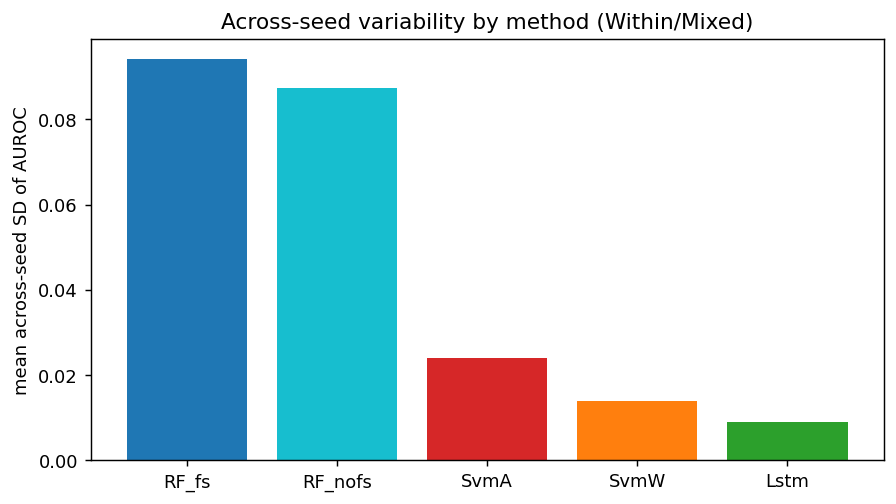
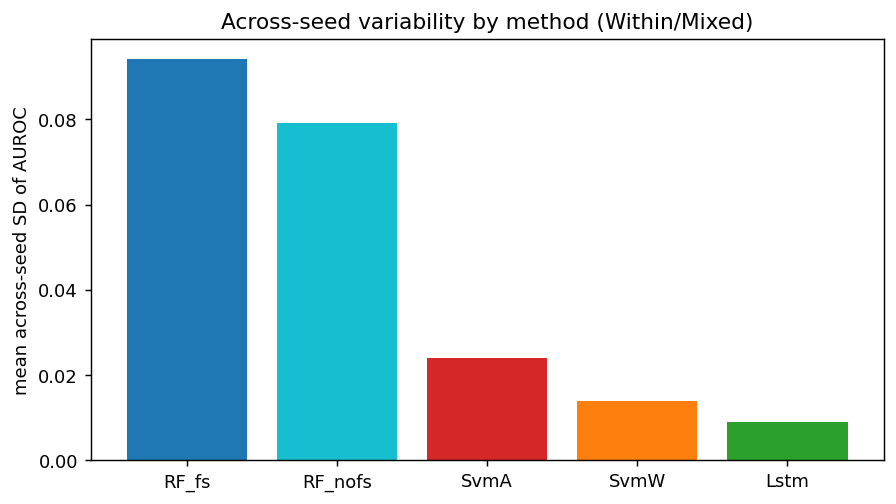
docs(exp3): finalize recorded-value analysis — RF-nofs Mixed complete at n=15
RF-nofs Mixed reached its full 15-seed extension (2026-08-02), closing the exp3
c1 recorded-value campaign. Re-ran the analysis and dropped all provisional
markers:
- §A RF-nofs Mixed 0.846 (in) / 0.912 (out), n=15 (was 0.843/0.908 n=12*)
- §B Mixed-in H=47.1, Mixed-out H=40.7; §C RF-nofs in->out p=6e-05
- §D1 Δ=+0.127 / +0.163 (cliff +0.74/+0.79); §D3 SD 0.077/0.081, BF updated
- figs 1/2/4 regenerated; status/migration notes and the progress-summary
  table + trade-off marked complete.
Zero deviation: finals match the provisional values to <0.01 (extra seeds only
tightened the SD); all rankings and conclusions unchanged. Every retained cell
is CI-adequate. No further experiments; only the manuscript revision remains.

Changed region(s): [[0.2812, 0.1488, 0.4688, 0.2679]]

diff --git a/docs/experiments/results/exp3-analysis/c1_recorded_value_analysis.md b/docs/experiments/results/exp3-analysis/c1_recorded_value_analysis.md
@@ -21,11 +21,10 @@ performance.
 - **Reproducibility:** `scripts/python/analysis/exp3_c1_recorded_value_analysis.py`. Tools:
   scipy / numpy / pandas / matplotlib (Dunn, Cliff's δ, Scheirer–Ray–Hare implemented in-script).
 
-> **Status (2026-08-01).** The Part B mechanism probes (Figures 5–7) are complete under **pooled**
-> (the deployment regime), with **mixed-in retained as a diagnostic** that reproduces every claim.
-> The Pooled-SW-SMOTE and RF-nofs descriptive cells remain provisional while the final RF-nofs
-> extension completes; regenerate the summary tables and statistical tests after that final artifact
-> set is available.
+> **Status (2026-08-03).** The recorded-value campaign is **complete** — all methods × the retained
+> Pooled/Mixed modes are final (RF-nofs reached its full 15-seed extension on 2026-08-02). The Part B
+> mechanism probes (Figures 5–7) report **pooled** (the deployment regime), with **mixed-in retained
+> as a diagnostic**. Sections A–E below are the finalized numbers.
 
 > **Migration in progress — see [within_retirement_plan.md](within_retirement_plan.md).** The two
 > Within modes are being retired because `within` trains only on the target group, discarding the
@@ -42,15 +41,14 @@ Mean ± SD (n); 95% t-CI and percentile bootstrap CI are computed in the script.
 | Method | Pooled-base | Pooled-SW-SMOTE | Mixed-in | Mixed-out |
 |---|---|---|---|---|
 | **RF (fs)** | 0.738 ± 0.090 (15) | 0.795 ± 0.052 (15) | 0.719 ± 0.085 (24) | 0.749 ± 0.104 (24) |
-| **RF (nofs)** | — | 0.870 ± 0.026 (5) | 0.843 ± 0.085 (12)* | 0.908 ± 0.090 (12)* |
+| **RF (nofs)** | — | 0.870 ± 0.026 (5) | 0.846 ± 0.077 (15) | 0.912 ± 0.081 (15) |
 | **SvmW** | 0.519 ± 0.011 (6) | 0.694 ± 0.018 (6) | 0.742 ± 0.012 (8) | 0.771 ± 0.016 (8) |
 | **SvmA** | 0.481 ± 0.008 (6) | 0.538 ± 0.042 (6) | 0.530 ± 0.026 (11) | 0.597 ± 0.022 (11) |
 | **Lstm** | 0.512 ± 0.011 (6) | 0.513 ± 0.006 (6) | 0.782 ± 0.009 (15) | 0.779 ± 0.009 (15) |
 
 RF-nofs has no Pooled-base arm by design. The two Within modes are retired (see
 [within_retirement_plan.md](within_retirement_plan.md)); Pooled and Mixed are the deployable
-regimes. *RF-nofs Mixed cells (n=12) are provisional pending the RF-nofs seed extension to n=15;
-the ranking is unaffected.
+regimes. RF-nofs reached its full 15-seed extension (2026-08-02); all Mixed cells are final.
 
 ![Recorded AUROC by method and mode](figures/c1_recorded/fig1_auroc_method_mode.png)
 
@@ -58,8 +56,8 @@ the ranking is unaffected.
 evaluation modes retained after the Within retirement (Pooled-SW-SMOTE, Mixed-in, Mixed-out;
 Pooled-base omitted), with the 0.5 reference line. The error bars use the same SD as the "±" column
 of the table above; they are clipped at 1.0 because a symmetric bar on a bounded metric can
-otherwise overshoot for small-n, near-ceiling cells (e.g. RF-nofs Mixed-out, n=12, mean 0.908, SD
-0.090). RF-nofs is the highest but with the widest dispersion; in the Mixed modes the top-10 RF-fs
+otherwise overshoot for small-n, near-ceiling cells (e.g. RF-nofs Mixed-out, n=15, mean 0.912, SD
+0.081). RF-nofs is the highest but with the widest dispersion; in the Mixed modes the top-10 RF-fs
 is 4th of 5 (SvmW and Lstm both above it); SvmA is the lowest throughout.*
 
 ---
@@ -73,8 +71,8 @@ Cliff's δ (details in the script). **The method effect is highly significant in
 |---|---|---|---|---|
 | Pooled-base | 27.4 | 4.8e-06 | 0.84 | RF-fs (0.738) ≫ SvmW ≈ Lstm ≈ SvmA (0.48–0.52) |
 | Pooled-SW-SMOTE | 32.3 | 1.7e-06 | 0.86 | RF-nofs (0.870) > RF-fs (0.795) > SvmW > SvmA > Lstm |
-| Mixed-in | 43.7 | 7.4e-09 | 0.61 | RF-nofs > **Lstm > SvmW > RF-fs** > SvmA |
-| Mixed-out | 36.4 | 2.4e-07 | 0.50 | RF-nofs > **Lstm > SvmW > RF-fs** > SvmA |
+| Mixed-in | 47.1 | 1.5e-09 | 0.63 | RF-nofs > **Lstm > SvmW > RF-fs** > SvmA |
+| Mixed-out | 40.7 | 3.0e-08 | 0.54 | RF-nofs > **Lstm > SvmW > RF-fs** > SvmA |
 
 - **Under Pooled-base only RF-fs separates from the 0.5 level** (RF-fs vs each of SvmW / SvmA /
   Lstm: p_holm ≤ 0.03, **Cliff's δ = 1.0**); the other three are statistically indistinguishable.
@@ -97,7 +95,7 @@ regimes: domain restriction is Pooled→Mixed and domain shift is Mixed in→out
 | Method | Imbalance (base→SW-SMOTE) | Domain restriction (Pooled→Mixed) | Domain shift (Mixed in→out) |
 |---|---|---|---|
 | **RF-fs** | Δ=+0.060, **p=0.035** | Δ=−0.039, **p=0.005** | Δ=+0.032 **p=8e-06** |
-| **RF-nofs** | (n.a.) | Δ=+0.008, p=1.0 (n.s.) | Δ=+0.066 **p=5e-04** |
+| **RF-nofs** | (n.a.) | Δ=+0.008, p=1.0 (n.s.) | Δ=+0.066 **p=6e-05** |
 | **SvmW** | Δ=+0.179, **p=0.031** | Δ=+0.052, **p=0.031** | Δ=+0.030 **p=0.008** |
 | **SvmA** | Δ=+0.068, p=0.063 | Δ=−0.017, p=0.69 (n.s.) | Δ=+0.060 **p=0.001** |
 | **Lstm** | Δ=+0.005, **p=1.0 (inactive)** | Δ=+0.268, **p=0.031** | Δ=−0.006, p=0.25 (n.s.) |
@@ -119,14 +117,13 @@ regimes: domain restriction is Pooled→Mixed and domain shift is Mixed in→out
 | Mode | RF-fs | RF-nofs | Δ | p | Cliff's δ |
 |---|---|---|---|---|---|
 | Pooled-SW-SMOTE | 0.795 | 0.870 | +0.074 | **0.008** | +0.79 (large) |
-| Mixed-in | 0.719 | 0.843 | +0.124 | **0.001** | +0.71 (large) |
-| Mixed-out | 0.749 | 0.908 | +0.159 | **2e-04** | +0.77 (large) |
+| Mixed-in | 0.719 | 0.846 | +0.127 | **1e-04** | +0.74 (large) |
+| Mixed-out | 0.749 | 0.912 | +0.163 | **4e-05** | +0.79 (large) |
 
 **Using all 165 features instead of the top-10 raises RF's recorded AUROC by ≈0.07–0.16 (large
 effect) across the retained modes** — but a controlled dose-response (D1b) shows this dependence
 **saturates by k≈20**, so it is not an open-ended benefit of ever-more features. (RF-nofs Mixed
-cells are provisional at n=12 pending the seed extension; the large effect and its direction are
-unaffected.)
+cells are final at n=15.)
 
 ![RF feature-count effect](figures/c1_recorded/fig2_rf_feature_count.png)
 
@@ -186,14 +183,14 @@ near-balanced target and is unaffected by SMOTE; RF is never degenerate.
 |---|---|---|---|---|---|---|
 | Pooled-base | 0.090 | — | 0.011 | 0.008 | 0.011 | W=5.77, **p=0.003** |
 | Pooled-SW-SMOTE | 0.052 | 0.026 | 0.018 | 0.042 | 0.006 | W=1.94, p=0.13 (n.s.) |
-| Mixed-in | 0.085 | 0.085 | 0.012 | 0.026 | 0.009 | W=5.12, **p=0.001** |
-| Mixed-out | 0.104 | 0.090 | 0.016 | 0.022 | 0.009 | W=4.37, **p=0.003** |
+| Mixed-in | 0.085 | 0.077 | 0.012 | 0.026 | 0.009 | W=5.19, **p=0.001** |
+| Mixed-out | 0.104 | 0.081 | 0.016 | 0.022 | 0.009 | W=4.41, **p=0.003** |
 
 **RF (both variants) is markedly the least seed-stable method** — its across-seed SD (0.05–0.10)
 is up to an order of magnitude larger than SvmW's / Lstm's (≈0.01), with significant variance
 heterogeneity in every domain-restricted mode (the Pooled-SW-SMOTE heterogeneity is not
 significant). This reflects the seed sensitivity of the RF ensemble + Optuna pipeline relative to
-the near-deterministic SVM and LSTM pipelines. (RF-nofs Mixed SD is provisional at n=12.)
+the near-deterministic SVM and LSTM pipelines.
 
 ![Across-seed variability by method](figures/c1_recorded/fig4_seed_variability.png)
 

diff --git a/docs/experiments/results/exp3-analysis/c1_progress_summary.md b/docs/experiments/results/exp3-analysis/c1_progress_summary.md
@@ -8,34 +8,33 @@ here for progress completeness but are **retired** from the reported analysis (s
 
 ## 1. Recorded AUROC by method × evaluation mode
 
-Mean ± SD (n). All cells complete except RF-nofs Mixed (ETA below).
+Mean ± SD (n). **All cells complete** (RF-nofs reached its full 15-seed extension on 2026-08-02).
 
 | Method | Pooled-SW-SMOTE | Within-in | Within-out | Mixed-in | Mixed-out |
 |---|---|---|---|---|---|
 | **RF (fs)** | 0.795 ± 0.052 (15) | 0.746 ± 0.089 (24) | 0.778 ± 0.108 (24) | 0.719 ± 0.085 (24) | 0.749 ± 0.104 (24) |
-| **RF (nofs)** | 0.870 ± 0.026 (5) | 0.895 ± 0.053 (15) | 0.931 ± 0.044 (15) | 0.841 ± 0.082 (13)\* | 0.906 ± 0.086 (13)\* |
+| **RF (nofs)** | 0.870 ± 0.026 (5) | 0.895 ± 0.053 (15) | 0.931 ± 0.044 (15) | 0.846 ± 0.077 (15) | 0.912 ± 0.081 (15) |
 | **SvmW** | 0.694 ± 0.018 (6) | 0.800 ± 0.012 (8) | 0.759 ± 0.013 (8) | 0.742 ± 0.012 (8) | 0.771 ± 0.016 (8) |
 | **SvmA** | 0.538 ± 0.042 (6) | 0.583 ± 0.026 (11) | 0.574 ± 0.064 (11) | 0.530 ± 0.026 (11) | 0.597 ± 0.022 (11) |
 | **Lstm** | 0.513 ± 0.006 (6) | 0.779 ± 0.007 (15) | 0.763 ± 0.012 (15) | 0.782 ± 0.009 (15) | 0.779 ± 0.009 (15) |
 
-\*RF-nofs Mixed cells are at **n=13/15**. They are already CI-adequate (required n ≈ 11–12 for a 95 %
-CI half-width ≤ 0.05); the last 2 seeds/cell only tighten the interval. Lstm targets the DRT
-`event_label` (a different construct from the KSS label the other four use), so its absolute level is
-not directly commensurable.
+Every retained cell is CI-adequate (required n ≈ 11–12 for a 95 % CI half-width ≤ 0.05; RF-nofs Mixed
+is the tightest constraint and is met at n=15). Lstm targets the DRT `event_label` (a different
+construct from the KSS label the other four use), so its absolute level is not directly commensurable.
 
-**Completion status / ETA (2026-08-02):**
+**Completion status (2026-08-03):**
 
 | Method | Status |
 |---|---|
 | RF (fs) | ✅ complete (all modes) |
+| RF (nofs) | ✅ complete (Pooled/Within/Mixed; Mixed reached 15/15 on 2026-08-02) |
 | SvmW | ✅ complete (Within/Mixed 8/8, Pooled-SW-SMOTE 6/6) |
 | SvmA | ✅ complete (Within/Mixed 11/11, Pooled-SW-SMOTE 6/6) |
 | Lstm | ✅ complete (all modes) |
-| RF (nofs) | Pooled/Within ✅; **Mixed-in 13/15, Mixed-out 13/15 — in progress** |
 
-- **Only remaining work:** RF-nofs Mixed, 2 seeds/cell. Each RF-nofs cell is ~15–38 h (165-feature
-  Optuna search, CPU, 6 workers) → **ETA ≈ 2026-08-03**. The analysis is already CI-adequate without
-  them.
+- **The exp3 c1 recorded-value campaign is complete.** No cells remain; no additional experiments are
+  needed (all retained cells CI-adequate). Remaining downstream work is the TIV2026_exp3 manuscript
+  revision from this finalized set.
 
 ![Recorded AUROC by method × evaluation mode](figures/c1_recorded/fig_progress_auroc_by_mode.png)
 
@@ -143,12 +142,11 @@ and RF is heaviest end-to-end despite the fastest model.*
 
 ### 2e. Deployment reading — accuracy × speed trade-off
 
-Reading the two cost axes against Mixed-regime accuracy (the deployable regime; RF-nofs Mixed is
-provisional at n=13):
+Reading the two cost axes against Mixed-regime accuracy (the deployable regime; all cells final):
 
 | Method | Mixed AUROC (rank) | Build (h/cell) | End-to-end infer (ms/window) |
 |---|---|---|---|
-| **RF (nofs)** | **0.87 (1st)**\* | 23.2 | ~51 |
+| **RF (nofs)** | **0.88 (1st)** | 23.2 | ~51 |
 | **Lstm** | 0.78 (2nd) | **0.8** | **~0.8** |
 | **SvmW** | 0.76 (3rd) | 17.4 | ~3.5 |
 | **RF (fs)** | 0.73 (4th) | **0.7** | **~1–2** |
